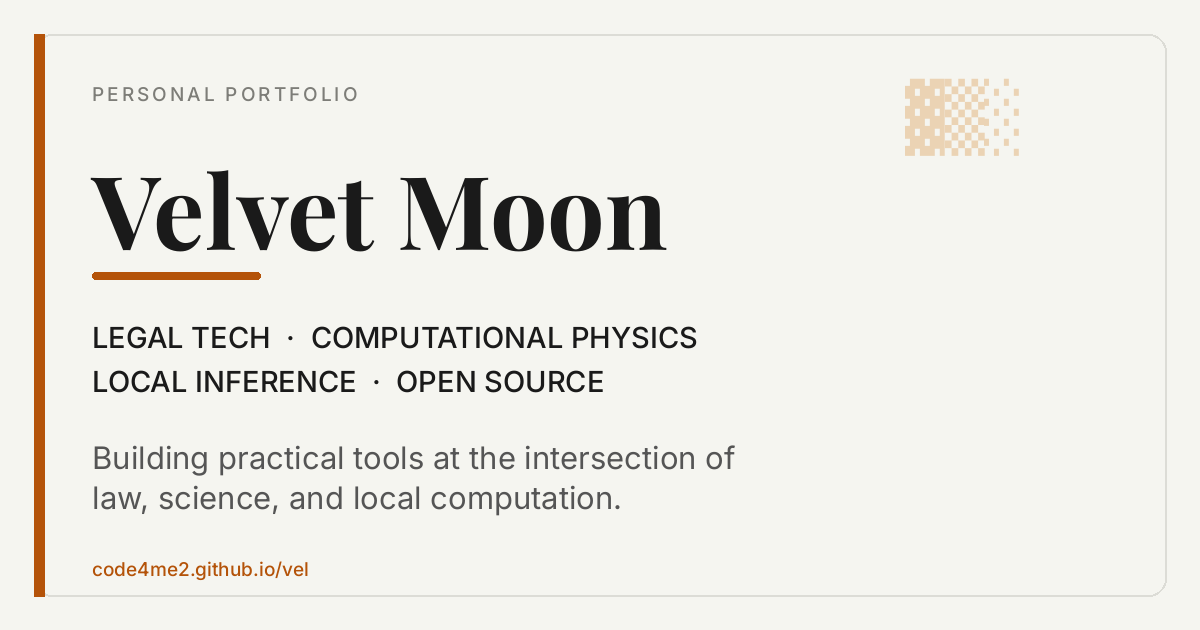
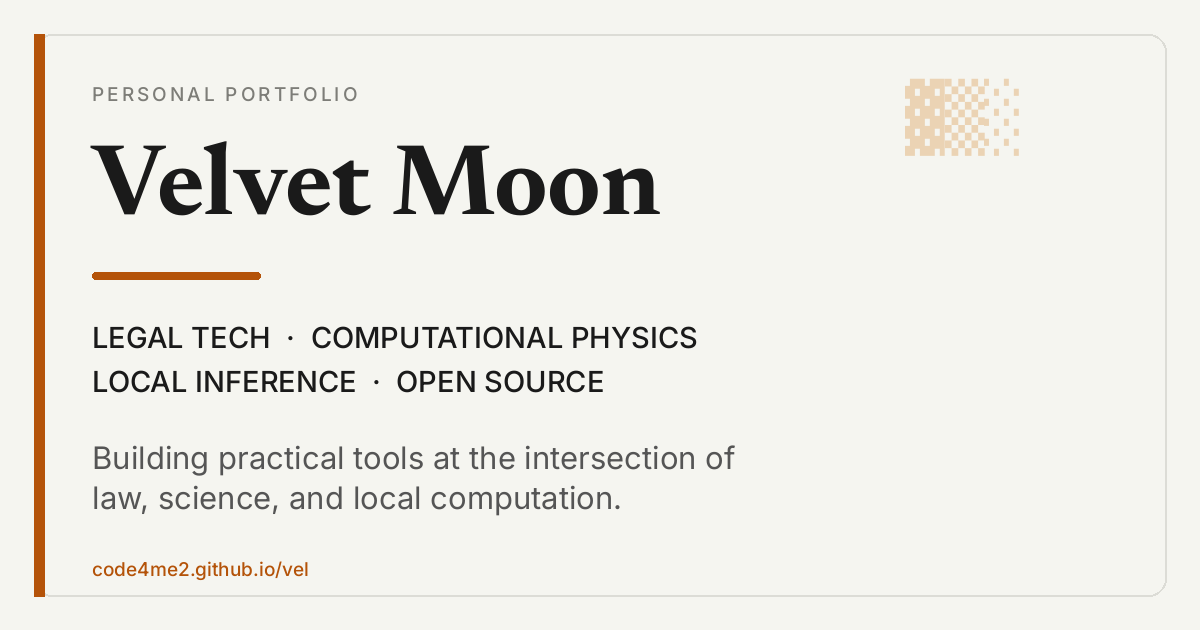
Use Newsreader and Inter typography

Changed region(s): [[0.0617, 0.2111, 0.555, 0.4222]]

diff --git a/styles.css b/styles.css
@@ -137,9 +137,9 @@ header {
 }
 
 header h1 {
-    font-family: 'Playfair Display', serif;
+    font-family: 'Newsreader', Georgia, serif;
     font-size: 3em;
-    font-weight: 900;
+    font-weight: 700;
     letter-spacing: -1.5px;
     color: var(--text);
     margin-bottom: 6px;
@@ -171,9 +171,9 @@ section {
 }
 
 section h2 {
-    font-family: 'Playfair Display', serif;
+    font-family: 'Newsreader', Georgia, serif;
     font-size: 1.1em;
-    font-weight: 700;
+    font-weight: 600;
     color: var(--text);
     margin-bottom: 18px;
     padding-bottom: 6px;
@@ -186,9 +186,9 @@ section h2 {
 }
 
 .left-column .entry h3 {
-    font-family: 'Playfair Display', serif;
+    font-family: 'Newsreader', Georgia, serif;
     font-size: 1.25em;
-    font-weight: 700;
+    font-weight: 600;
     color: var(--text);
     margin-bottom: 2px;
 }

diff --git a/index.html b/index.html
@@ -25,7 +25,7 @@
     <meta name="twitter:image:alt" content="Velvet Moon — Legal Tech, Computational Physics, and Local Inference">
     <link rel="preconnect" href="https://fonts.googleapis.com">
     <link rel="preconnect" href="https://fonts.gstatic.com" crossorigin>
-    <link href="https://fonts.googleapis.com/css2?family=Playfair+Display:ital,wght@0,400;0,700;0,900;1,400&family=Inter:wght@400;500;600&family=JetBrains+Mono:wght@400;500&display=swap" rel="stylesheet">
+    <link href="https://fonts.googleapis.com/css2?family=Inter:wght@400;500;600&family=Newsreader:opsz,wght@6..72,600;6..72,700&display=swap" rel="stylesheet">
     <link rel="stylesheet" href="styles.css">
     <script>
         (function(){
